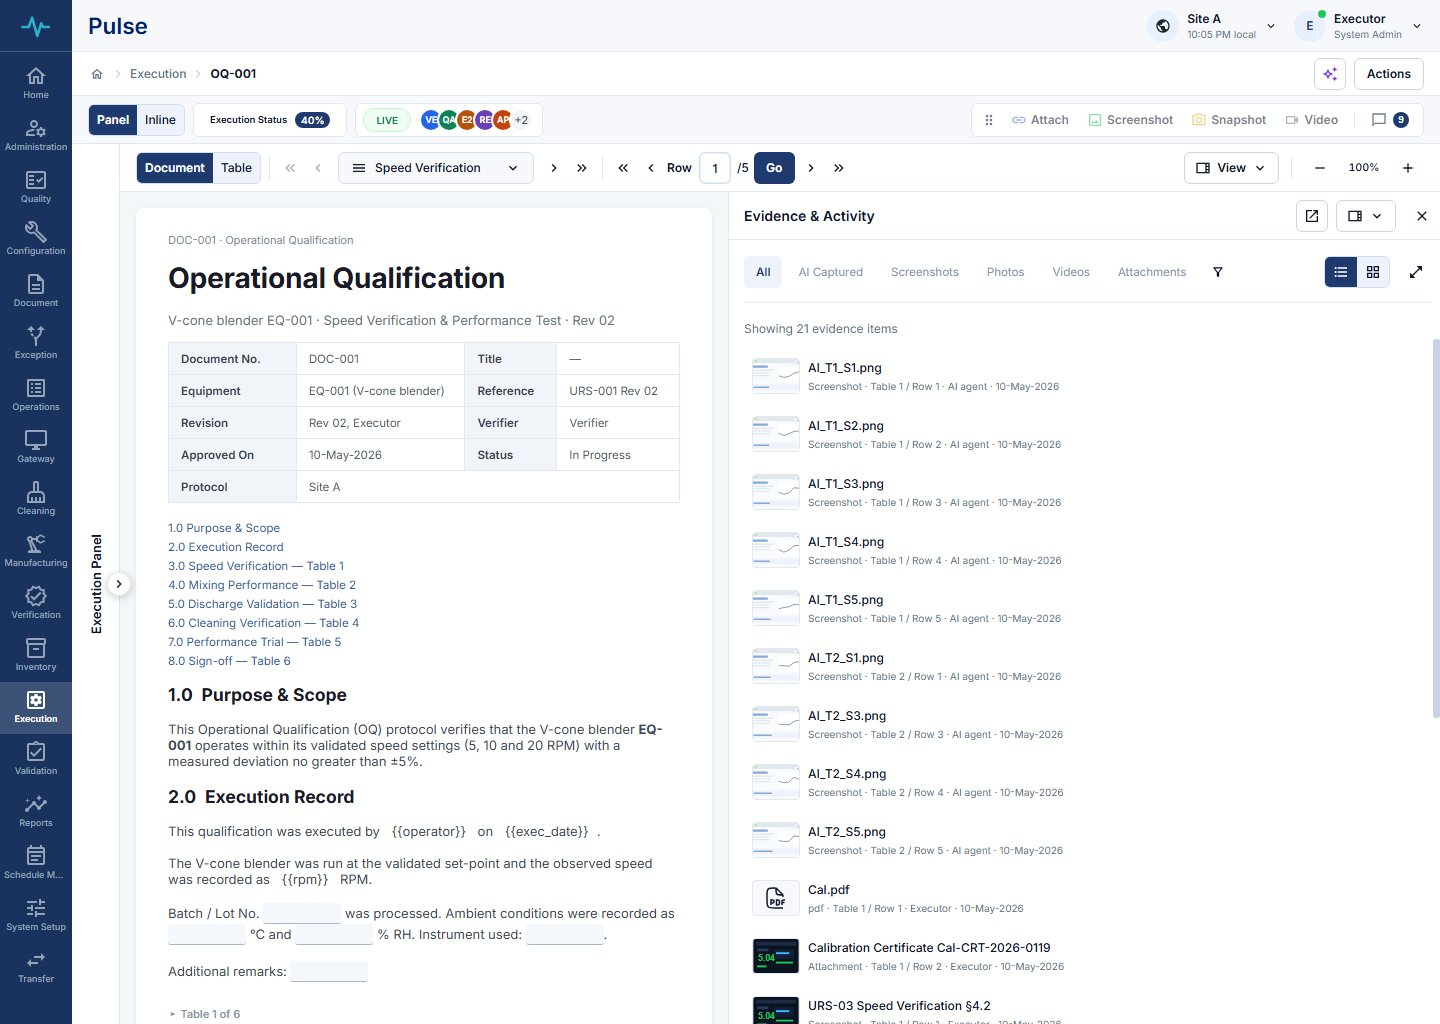
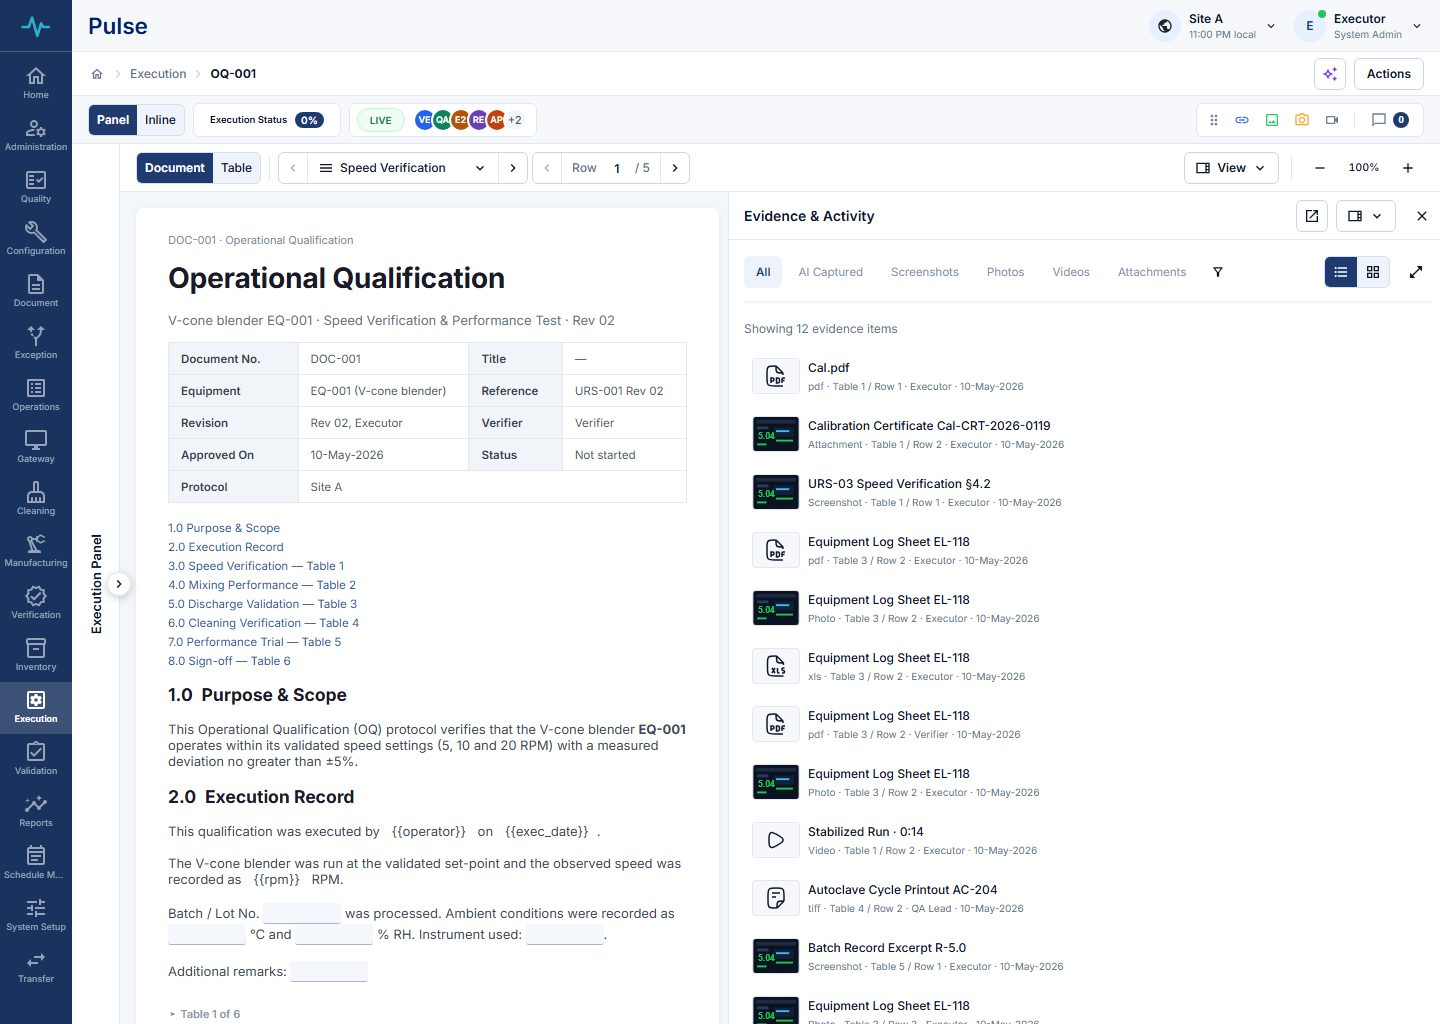
content(execution): re-capture the eight case study screens and update the text
New screens from the updated app (compact steppers, icon-only evidence buttons, design-system flyouts, resizable pane), captured by scripts/dev/execution-shots.mjs through the app's own actions. Alt text and captions now match what each screen shows (the metrics screen is bars with a donut toggle, not donuts), the component list names Flyout, ResizeHandle, Popover and TreeView, the tour gains a fourth step.

diff --git a/src/data/executionCaseStudy.ts b/src/data/executionCaseStudy.ts
@@ -13,8 +13,8 @@ const dir = '/images/projects/execution';
 export const eeImages: Record<string, Slot> = {
   execution: {
     src: `${dir}/execution.jpg`,
-    alt: 'The execution screen: left navigation, breadcrumb and status bar, the protocol as a document card, and the Evidence and Activity pane on the right',
-    caption: 'Decision: the protocol stays a document. The execution panel collapses to a strip and the evidence pane sits beside it. Click to enlarge.',
+    alt: 'The execution screen: left navigation, breadcrumb and status bar with icon-only evidence buttons, a document toolbar with compact table and row steppers, the protocol as a document card, and the Evidence and Activity pane on the right',
+    caption: 'Decision: the protocol stays a document. The execution panel collapses to a strip, the evidence pane sits beside it and can be dragged wider, and the toolbar spends little space on navigation. Click to enlarge.',
     hint: 'Execution screen, 1440 × 900',
   },
   sign: {
@@ -31,20 +31,20 @@ export const eeImages: Record<string, Slot> = {
   },
   ai: {
     src: `${dir}/ai-agent.jpg`,
-    alt: 'The AI agent panel with a banner saying the result is a draft the executor must review and record, the input and scope choices and the run button',
+    alt: 'The AI agent panel after a run: a note saying the results are drafts the executor must review and record, one card per step with Pass and an AI-filled draft chip, a Record this step button on each, and Run and Record all in the footer',
     caption: 'Decision: the assistant proposes, the person records. The banner, the draft state and the per-step Record button keep the person responsible. Click to enlarge.',
     hint: 'AI agent panel, 1440 × 900',
   },
   status: {
     src: `${dir}/status.jpg`,
-    alt: 'The execution status panel: recorded and verified progress, counts by verdict, drafts, AI-filled steps, open discrepancies and per-table progress',
+    alt: 'The execution status panel part-way through a run: 40 percent recorded, ten of 25 steps completed, one failed, evidence and AI-proposed counts, one open discrepancy and progress for each table',
     caption: 'Decision: the executor sees what a reviewer will. Execution status shows where the run stands, by verdict and by table. Click to enlarge.',
     hint: 'Execution status, 1440 × 900',
   },
   metrics: {
     src: `${dir}/metrics.jpg`,
-    alt: 'The metrics panel with two donut charts for step status and verdict split, and a bar for each table coloured by verdict',
-    caption: 'Decision: progress as shape, not only numbers. Step status and verdict split as donuts, one bar per table. Click to enlarge.',
+    alt: 'The metrics panel, Overall Metrics tab: four small bar charts for document level, discrepancy level, completed tables and tables still in progress, each with its legend and counts',
+    caption: 'Decision: progress as shape, not only numbers. Document and discrepancy level as bars with their counts beside them, and a toggle for donut charts. Click to enlarge.',
     hint: 'Metrics, 1440 × 900',
   },
   audit: {
@@ -107,13 +107,15 @@ export const componentMap: { need: string; component: string }[] = [
   { need: 'Pass / Fail / N/A and the view toggles', component: 'ToggleButtonGroup' },
   { need: 'Signing and verifying', component: 'ElectronicSignature in a compact mode, with TextField, Select and Checkbox' },
   { need: 'Small confirmations: Fail prompt, unsaved changes, edit reason', component: 'CompactDialog' },
-  { need: 'Side surfaces: status, metrics, details, split, AI, history', component: 'Flyout, SideSurface and SlidePanel' },
+  { need: 'Side panels: Actions, status, metrics, details, split, user picker, history', component: 'Flyout (with a compact header size) and SlidePanel; the floating AI agent uses the inline FlyoutPanel' },
+  { need: 'Resizing the Evidence and Activity pane and the Details panel', component: 'ResizeHandle, an accessible splitter I added' },
+  { need: 'Browsing documents from View: Attachments and Vault', component: 'Popover, ToggleButtonGroup and TreeView' },
   { need: 'Evidence gallery and viewer', component: 'FullScreenSurface' },
   { need: 'State and verdict badges', component: 'Chip and Status' },
   { need: 'Progress and counts', component: 'ProgressBar, KPICard and the Charts donut and bar' },
   { need: 'Warnings, errors and the AI draft banner', component: 'Notification, including the snackbar for toasts' },
   { need: 'People on the run', component: 'Avatar and Tooltip' },
-  { need: 'Menus and zoom', component: 'DropdownMenu and ZoomControl' },
+  { need: 'Menus, table and row stepping, and zoom', component: 'DropdownMenu, Tooltip and small stepper groups built from the chrome components' },
 ];
 
 /** The one "Not validated" block. Shown before the results. */
@@ -137,16 +139,18 @@ export const startingPoint = 'An existing single-file HTML prototype of the expe
 export const whatIDid = [
   'Read the prototype end to end and wrote down every function before drawing anything.',
   'Rebuilt it as a React and TypeScript app from PULSE components, with the rules enforced in the state logic.',
-  'Added the components PULSE lacked (CompactDialog, SideSurface, FullScreenSurface, SlidePanel) and logged each difference.',
+  'Added the components PULSE lacked (CompactDialog, FullScreenSurface, SlidePanel, ResizeHandle) and logged each difference.',
   'Matched the screen to the real product design, region by region, and de-branded it.',
+  'Then tightened it for a dense screen: one bordered stepper each for tables and rows instead of fourteen small buttons, icon-only evidence buttons with tooltips, a compact flyout header, and every side panel on the design system’s own Flyout.',
 ];
 export const notPorted = 'Not rebuilt: Protocol Error and Re-Execute modes, the spreadsheet-style document view and live-session timing.';
 
-/** A three-step tour of the working app. Each step is something the app does. */
+/** A four-step tour of the working app. Each step is something the app does. */
 export const tryThis = [
   'Open the Execution Panel beside the document, write an actual result, choose Pass and press Record. If something is missing, such as evidence, it is listed in place. When the step is complete, the e-signature opens.',
   'Do the same on another step and choose Fail: the app asks whether to raise a discrepancy.',
   'Click the Execution Status chip in the status bar to see the counts and progress change.',
+  'Drag the left edge of the Evidence and Activity pane to make it wider, then open View to browse the Attachments and Vault documents.',
 ];
 export const tryNote = 'A toast saying a viewer is now viewing the execution appears shortly after load. That is by design: it shows the read-only spectator role, with a sample spectator.';
 

diff --git a/src/pages/ExecutionCaseStudyPage.tsx b/src/pages/ExecutionCaseStudyPage.tsx
@@ -53,7 +53,7 @@ export default function ExecutionCaseStudyPage() {
             <>
               <a className="btn-c" href={appUrl} target="_blank" rel="noopener noreferrer">Open the working app</a>
               <a className="btn-c btn-c--ghost" href={galleryUrl} target="_blank" rel="noopener noreferrer">Component gallery</a>
-              <p className="pk-hero__start">Try it in three steps: record a step, force a Fail, open Execution Status. <a href="#try">The steps</a>.</p>
+              <p className="pk-hero__start">Try it in four steps: record a step, force a Fail, open Execution Status, resize the evidence pane. <a href="#try">The steps</a>.</p>
             </>
           }
         />
@@ -108,7 +108,7 @@ export default function ExecutionCaseStudyPage() {
           </Sec>
 
           <section className="pk-try" id="try" aria-labelledby="try-h">
-            <h3 id="try-h">Try the working app in three steps</h3>
+            <h3 id="try-h">Try the working app in four steps</h3>
             <ol>{tryThis.map(x => <li key={x}>{x}</li>)}</ol>
             <p>{tryNote}</p>
             <div className="pk-try__links">
